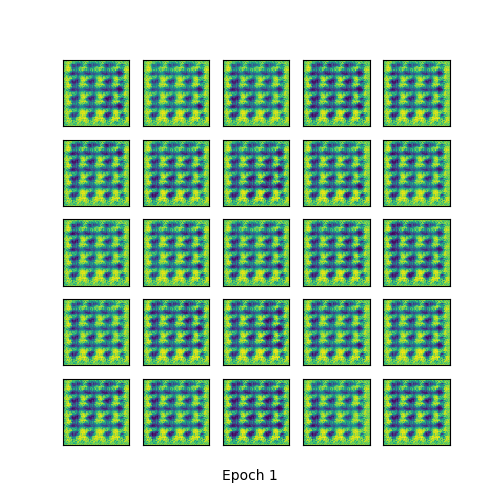
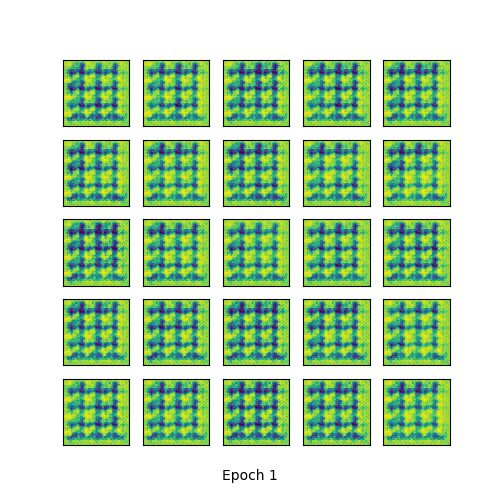
Random restarts code working

diff --git a/pytorch_CelebA_DCGAN.py b/pytorch_CelebA_DCGAN.py
@@ -97,8 +97,6 @@ def show_result(num_epoch, show = False, save = False, path = 'result.png', isFi
         i = k // 5
         j = k % 5
         ax[i, j].cla()
-        #print(((test_images[k].cpu().data.numpy().transpose(1, 2, 0) + 1) / 2).shape)
-        #ax[i, j].imshow((test_images[k].cpu().data.numpy().transpose(1, 2, 0) + 1) / 2)
         ax[i, j].imshow((test_images[k].cpu().data.numpy().transpose(1, 2, 0) + 1).squeeze() / 2)
 
     label = 'Epoch {0}'.format(num_epoch)
@@ -137,7 +135,7 @@ def show_train_hist(hist, show = False, save = False, path = 'Train_hist.png'):
 # training parameters
 batch_size = 128
 lr = 0.0002
-train_epoch = 2
+train_epoch = 75
 
 # data_loader
 img_size = 64
@@ -152,15 +150,11 @@ else:
     transform = transforms.Compose([
         transforms.ToTensor(),
         transforms.Normalize(mean=(0.5, 0.5, 0.5), std=(0.5, 0.5, 0.5))
-        #transforms.Normalize(mean=(0.5), std=(0.5))
     ])
 transform = transforms.Compose([
         transforms.Grayscale(), # Default output channels is 1
         transforms.ToTensor(),
-        transforms.Normalize(mean=(0.5, 0.5, 0.5), std=(0.5, 0.5, 0.5))
-        #transforms.Normalize(mean=(0.5), std=(0.5))
-        # New transform using https://pytorch.org/docs/master/torchvision/transforms.html#torchvision.transforms.Grayscale
-        
+        transforms.Normalize(mean=(0.5, 0.5, 0.5), std=(0.5, 0.5, 0.5))       
 ])
 
 
@@ -171,9 +165,7 @@ data_dir = 'data/charset_v1'          # this path depends on your computer
 
 dset = datasets.ImageFolder(data_dir, transform)
 train_loader = torch.utils.data.DataLoader(dset, batch_size=128, shuffle=True)
-#train_loader = torch.utils.data.ImageLoader(dset, batch_size=128, shuffle=True)
 temp = plt.imread(train_loader.dataset.imgs[0][0])
-#print(train_loader.dataset.imgs)
 print(temp.shape)
 if (temp.shape[0] != img_size) or (temp.shape[0] != img_size):
     sys.stderr.write('Error! image size is not 64 x 64! run \"celebA_data_preprocess.py\" !!!')
@@ -241,7 +233,6 @@ for epoch in range(train_epoch):
         y_fake_ = torch.zeros(mini_batch)
 
         x_, y_real_, y_fake_ = Variable(x_.cuda()), Variable(y_real_.cuda()), Variable(y_fake_.cuda())
-        #print(x_.shape)
         D_result = D(x_).squeeze()
         D_real_loss = BCE_loss(D_result, y_real_)
 
